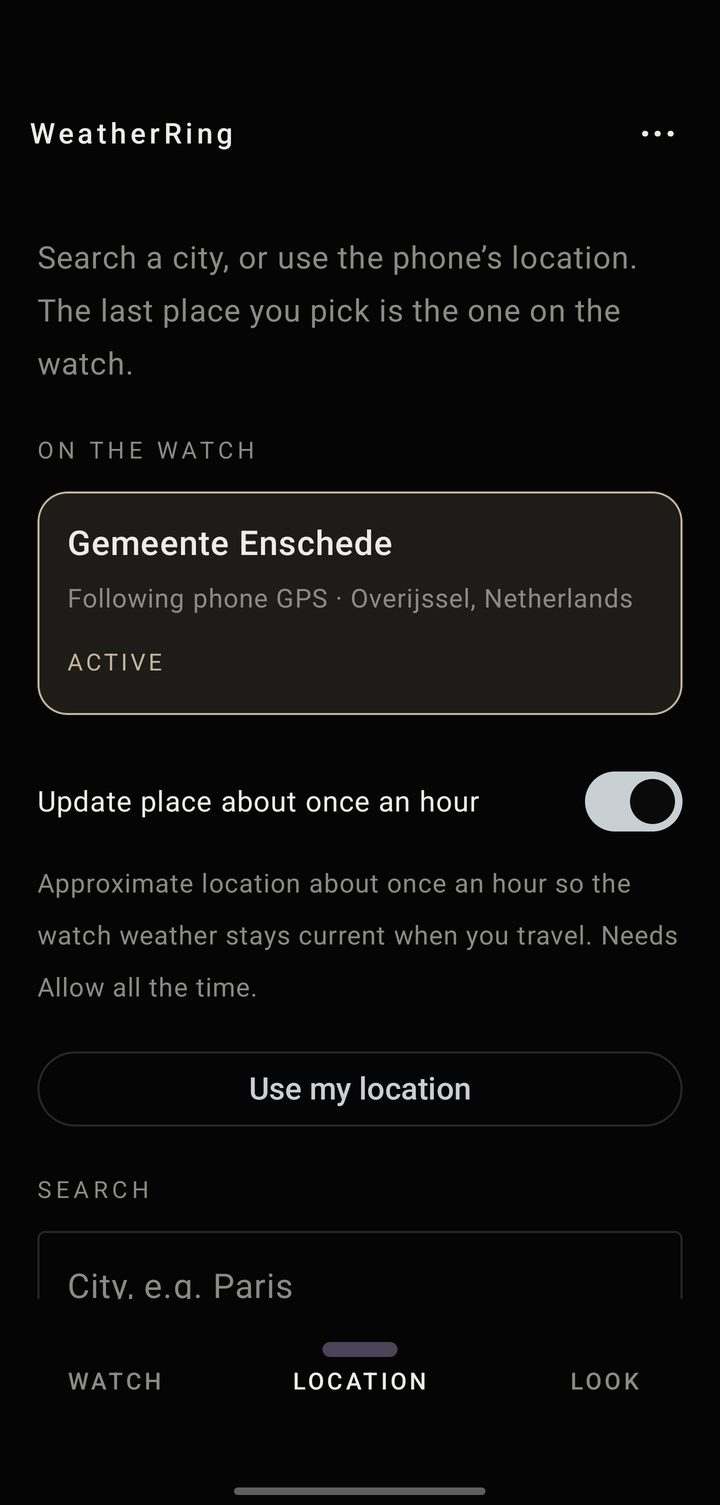
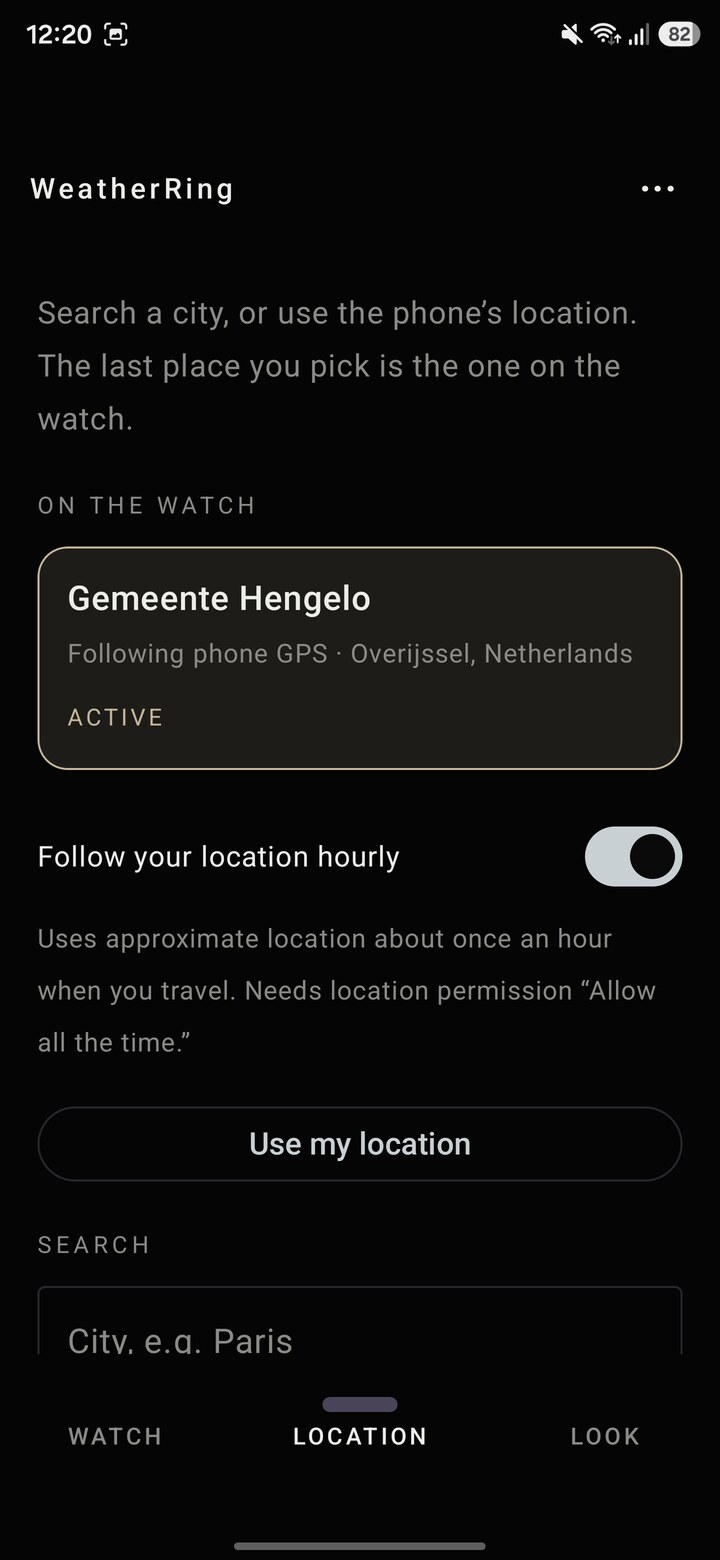
Update phone companion screenshots to match current app.
Replace Location and Watch tab images with sharp product-accurate shots; refresh alts, dimensions, and captions. Look-tab screenshots unchanged.

diff --git a/index.html b/index.html
@@ -236,12 +236,12 @@
         <p class="mt-4 max-w-2xl text-muted">Search a city. Use my location is one-shot. Hourly follow is a separate switch, off by default. A saved city never uses background GPS.</p>
         <div class="mt-12 grid gap-8 md:grid-cols-2">
           <figure>
-            <div class="phone-frame"><picture><source type="image/webp" srcset="images/phone-location-saved.webp"><img src="images/phone-location-saved.jpg" alt="WeatherRing Location tab with Frankfurt saved as a city and hourly update off" width="720" height="1505" loading="lazy" decoding="async"></picture></div>
-            <figcaption class="mt-3 text-sm text-muted">Saved city — hourly update is off.</figcaption>
+            <div class="phone-frame"><picture><source type="image/webp" srcset="images/phone-location-saved.webp"><img src="images/phone-location-saved.jpg" alt="WeatherRing Location tab with New York saved as a city and hourly follow off" width="720" height="1560" loading="lazy" decoding="async"></picture></div>
+            <figcaption class="mt-3 text-sm text-muted">Saved city — hourly follow is off.</figcaption>
           </figure>
           <figure>
-            <div class="phone-frame"><picture><source type="image/webp" srcset="images/phone-location-follow.webp"><img src="images/phone-location-follow.jpg" alt="WeatherRing Location tab following phone GPS with hourly place updates enabled" width="720" height="1505" loading="lazy" decoding="async"></picture></div>
-            <figcaption class="mt-3 text-sm text-muted">Follow mode — update place about once an hour.</figcaption>
+            <div class="phone-frame"><picture><source type="image/webp" srcset="images/phone-location-follow.webp"><img src="images/phone-location-follow.jpg" alt="WeatherRing Location tab following phone GPS with Follow your location hourly switch" width="720" height="1560" loading="lazy" decoding="async"></picture></div>
+            <figcaption class="mt-3 text-sm text-muted">Following phone GPS — hourly follow is a separate switch.</figcaption>
           </figure>
         </div>
       </div>
@@ -258,7 +258,7 @@
           <li class="rounded-2xl bg-bg-elevated p-6 shadow-[var(--shadow-border)]"><p class="kicker">Step 3</p><h3 class="mt-3 font-display text-xl text-fg">Open once, set the face</h3><p class="mt-3 text-sm text-muted">Open WeatherRing once on the watch. On Wear OS 6+ the face can be added after the watch app is installed. On Wear OS 5, add WeatherRing from the picker.</p></li>
         </ol>
         <figure class="mx-auto mt-12 max-w-sm">
-          <div class="phone-frame"><picture><source type="image/webp" srcset="images/phone-watch.webp"><img src="images/phone-watch.jpg" alt="WeatherRing companion Watch tab: current temperature, city, last update, and refresh, install, and sync actions" width="720" height="619" loading="lazy" decoding="async"></picture></div>
+          <div class="phone-frame"><picture><source type="image/webp" srcset="images/phone-watch.webp"><img src="images/phone-watch.jpg" alt="WeatherRing companion Watch tab: connected Galaxy Watch, refresh weather, install on watch, sync now" width="720" height="1560" loading="lazy" decoding="async"></picture></div>
           <figcaption class="mt-3 text-sm text-muted">Refresh weather, install on the watch, sync this look.</figcaption>
         </figure>
       </div>
